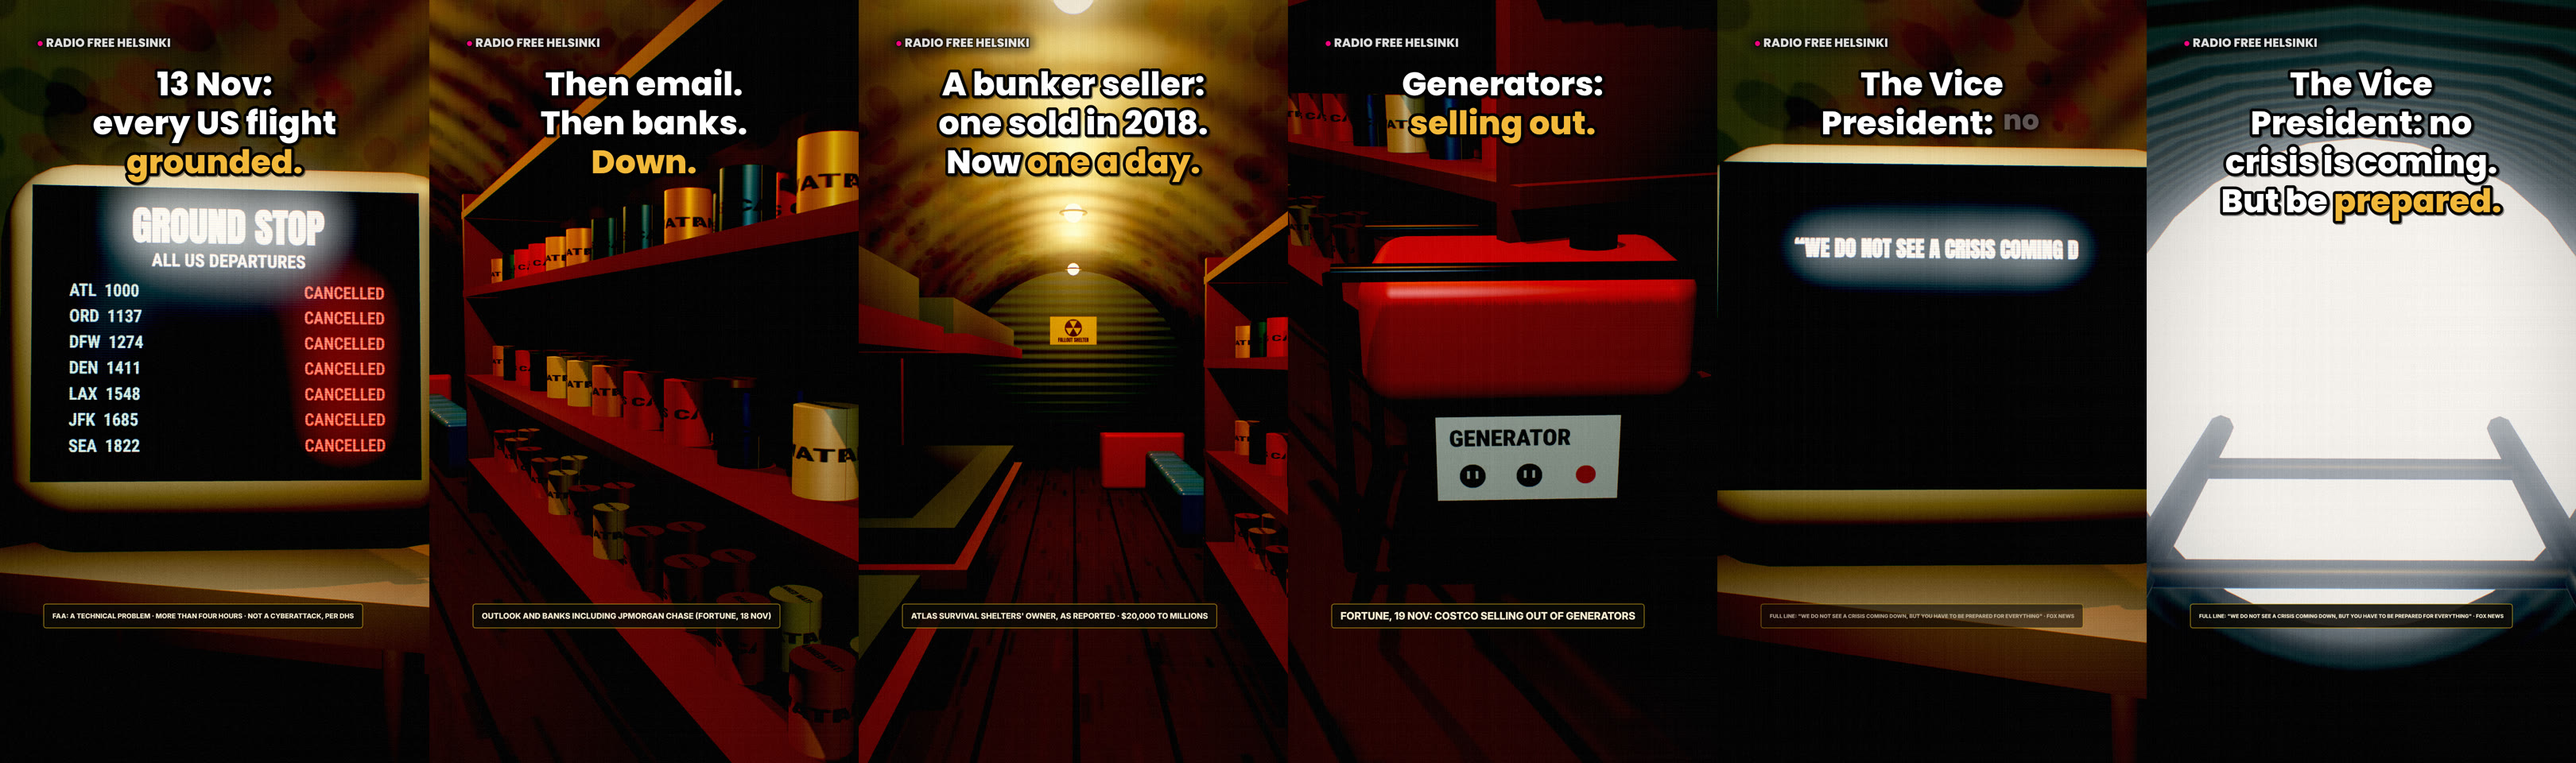
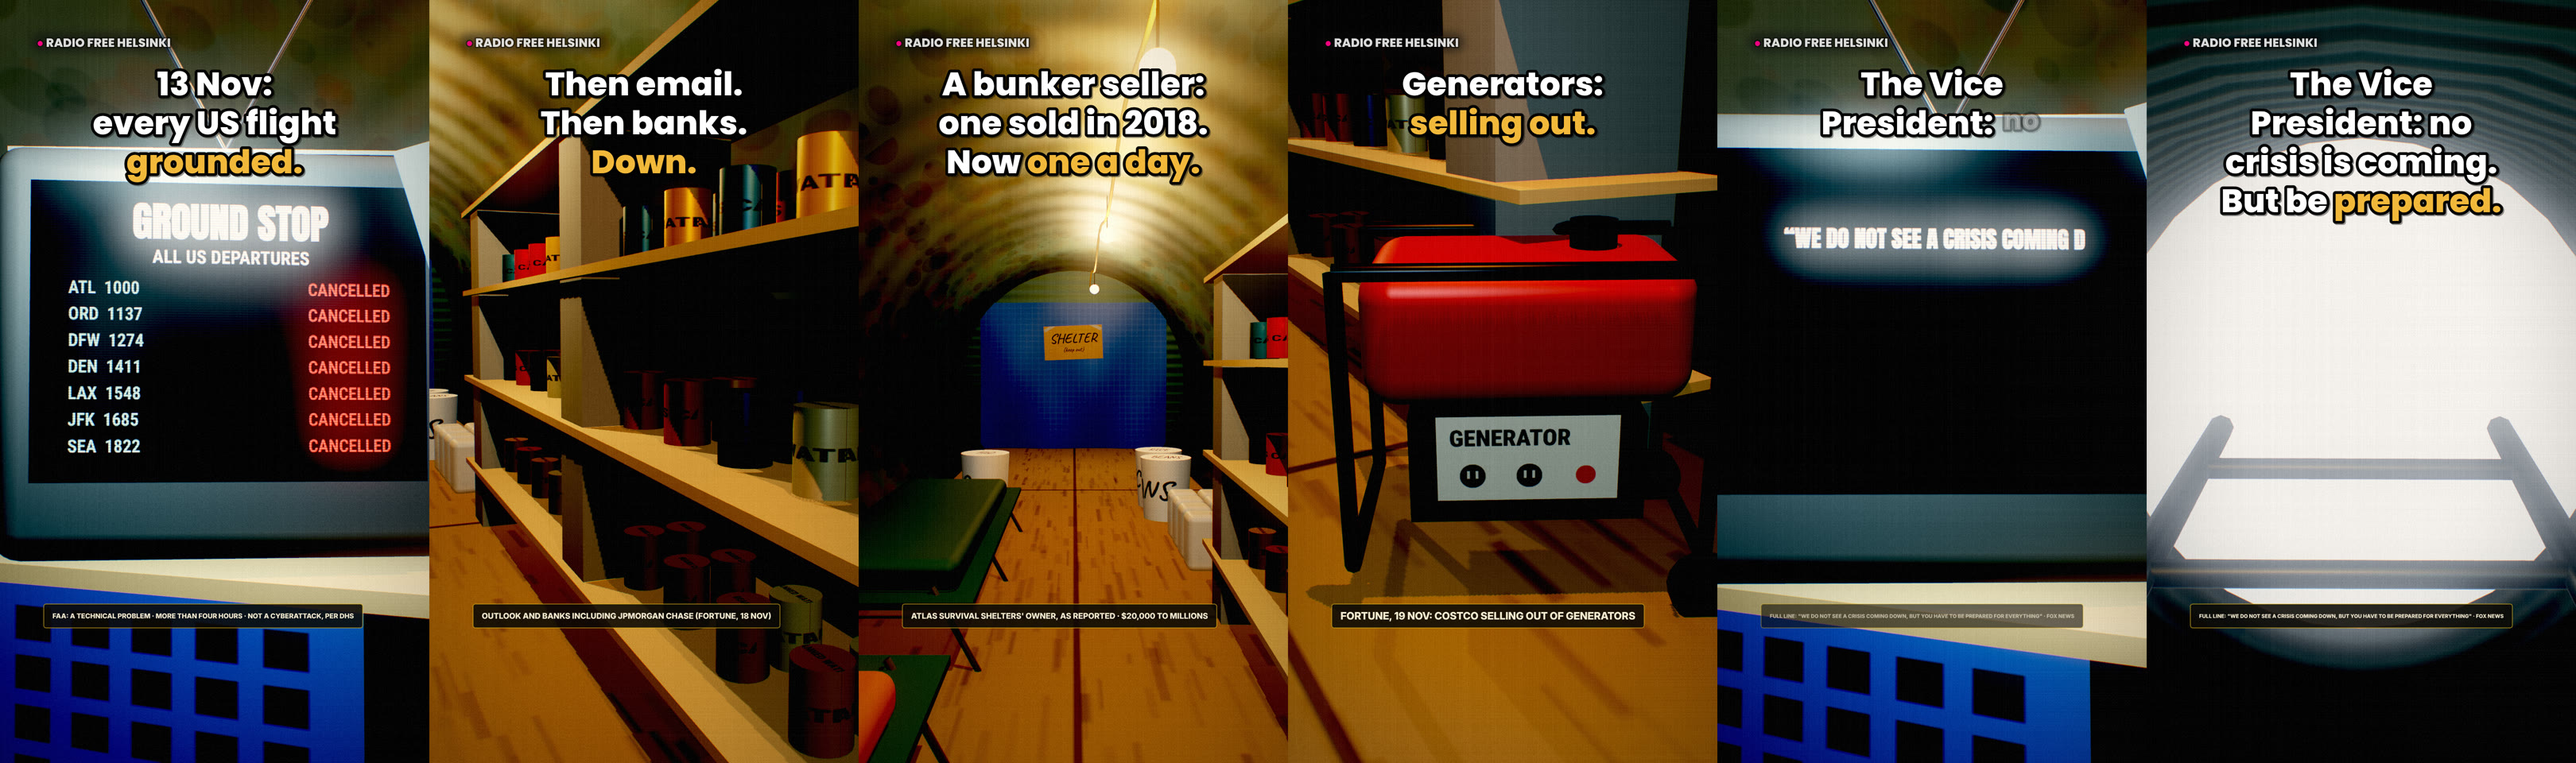
RFH Be Prepared v1.1: the DIY, cheaper bunker (owner direction)
Claude-Session: https://claude.ai/code/session_011b61vCGymuKHRP9nugFoKh

diff --git a/radiofree/studio/art-motion/clay/bunker/film.js b/radiofree/studio/art-motion/clay/bunker/film.js
@@ -19,8 +19,8 @@ import * as CAP from '../../pipeline/text/captions.js';
 const W = 1080, H = 1920, TAU = Math.PI * 2, FPS = 30;
 const Q = new URLSearchParams(location.search), LANG = Q.get('lang') || 'en';
 const FONT_DIR = Q.get('fonts') || '../../am/' + encodeURIComponent('代码工程') + '/lib/fonts/';
-for (const [fam, file] of [['Inter', 'Inter-var.woff'], ['Anton-400', 'Anton-400.woff'], ['RobotoCondensed', 'RobotoCondensed-var.woff']]) {
-  const f = new FontFace(fam, `url(${FONT_DIR}${file})`, fam === 'Anton-400' ? {} : { weight: '100 900' }); document.fonts.add(await f.load()); }
+for (const [fam, file] of [['Inter', 'Inter-var.woff'], ['Anton-400', 'Anton-400.woff'], ['RobotoCondensed', 'RobotoCondensed-var.woff'], ['Caveat-600', 'Caveat-600.woff']]) {
+  const f = new FontFace(fam, `url(${FONT_DIR}${file})`, (fam === 'Anton-400' || fam === 'Caveat-600') ? {} : { weight: '100 900' }); document.fonts.add(await f.load()); }
 const clamp = (v, a = 0, b = 1) => Math.max(a, Math.min(b, v)), lerp = (a, b, k) => a + (b - a) * k;
 const smooth = (k) => { k = clamp(k); return k * k * (3 - 2 * k); };
 const ease = { io: (k) => { k = clamp(k); return k < 0.5 ? 4 * k * k * k : 1 - Math.pow(-2 * k + 2, 3) / 2; }, out: (k) => 1 - Math.pow(1 - clamp(k), 3) };
@@ -62,16 +62,19 @@ const rust = canvasTex(512, 512, (g, w, h) => { g.fillStyle = '#5f7672'; g.fillR
 rust.wrapS = rust.wrapT = THREE.RepeatWrapping; rust.repeat.set(4, 2);
 const tube = mesh(new THREE.CylinderGeometry(RAD, RAD, LEN, 64, 1, true), std('#ffffff', { map: rust, normalMap: corrN, normalScale: new THREE.Vector2(0.9, 0.9), metalness: 0.55, roughness: 0.5, side: THREE.BackSide }),
   { rot: [Math.PI / 2, 0, 0], pos: [0, 0, -LEN / 2 + 1], parent: S, cast: false });
-const floorT = canvasTex(256, 1024, (g, w, h) => { g.fillStyle = '#4a3624'; g.fillRect(0, 0, w, h); for (let x = 0; x < w; x += 32) { g.fillStyle = `rgba(0,0,0,.4)`; g.fillRect(x, 0, 2, h); } const R = rng(9); for (let i = 0; i < 1200; i++) { g.fillStyle = `rgba(${R() < 0.5 ? '90,64,40' : '30,20,12'},${R() * 0.25})`; g.fillRect(R() * w, R() * h, 1 + R() * 3, 6 + R() * 30); } });
+const floorT = canvasTex(256, 1024, (g, w, h) => { g.fillStyle = '#9c7a4e'; g.fillRect(0, 0, w, h); for (let y = 0; y < h; y += 256) { g.fillStyle = `rgba(0,0,0,.5)`; g.fillRect(0, y, w, 3); } g.fillStyle = 'rgba(0,0,0,.4)'; g.fillRect(w / 2, 0, 3, h); const R = rng(9); for (let i = 0; i < 1200; i++) { g.fillStyle = `rgba(${R() < 0.5 ? '90,64,40' : '30,20,12'},${R() * 0.25})`; g.fillRect(R() * w, R() * h, 1 + R() * 3, 6 + R() * 30); } });
 mesh(new THREE.PlaneGeometry(1.9, LEN), std('#ffffff', { map: floorT, roughness: 0.8 }), { rot: [-Math.PI / 2, 0, 0], pos: [0, -0.72, -LEN / 2 + 1], parent: S });
 // the far end wall, the near end wall with the ladder and the hatch above it
 const wallM = std('#56706a', { roughness: 0.6, metalness: 0.5, normalMap: corrN });
 mesh(new THREE.CircleGeometry(RAD, 48), wallM, { pos: [0, 0, -LEN + 1.01], parent: S, cast: false });
 // the shelter sign (civil-defence: three yellow triangles in a black circle, a yellow plate)
-const signT = canvasTex(512, 300, (g, w, h) => { g.fillStyle = '#f2c21a'; g.fillRect(0, 0, w, h); g.fillStyle = '#111'; g.beginPath(); g.arc(w / 2, 120, 95, 0, TAU); g.fill();
-  g.fillStyle = '#f2c21a'; for (let i = 0; i < 3; i++) { const a = -Math.PI / 2 + i * TAU / 3; g.beginPath(); g.moveTo(w / 2, 120); g.lineTo(w / 2 + Math.cos(a - 0.5) * 85, 120 + Math.sin(a - 0.5) * 85); g.lineTo(w / 2 + Math.cos(a + 0.5) * 85, 120 + Math.sin(a + 0.5) * 85); g.fill(); }
-  g.fillStyle = '#111'; g.font = '800 54px Anton-400'; g.textAlign = 'center'; g.fillText(UI.sign, w / 2, 272); });
-mesh(new THREE.PlaneGeometry(0.5, 0.3), std('#ffffff', { map: signT, roughness: 0.5 }), { pos: [0, 0.55, -LEN + 1.03], parent: S, cast: false });
+const tarpT = canvasTex(256, 256, (g, w, h) => { g.fillStyle = '#2d5fa8'; g.fillRect(0, 0, w, h); g.strokeStyle = 'rgba(255,255,255,.08)'; for (let i = 0; i < w; i += 8) { g.beginPath(); g.moveTo(i, 0); g.lineTo(i, h); g.stroke(); g.beginPath(); g.moveTo(0, i); g.lineTo(w, i); g.stroke(); } });
+const tarp = mesh(new THREE.PlaneGeometry(2.0, 1.9, 20, 20), std('#ffffff', { map: tarpT, roughness: 0.6 }), { pos: [0, -0.1, -LEN + 1.08], parent: S, cast: false });
+{ const p_ = tarp.geometry.attributes.position; for (let i = 0; i < p_.count; i++) p_.setZ(i, 0.04 * Math.sin(p_.getX(i) * 7) * Math.sin(p_.getY(i) * 3 + 1)); p_.needsUpdate = true; tarp.geometry.computeVertexNormals(); }
+const signT = canvasTex(512, 300, (g, w, h) => { g.fillStyle = '#b48a56'; g.fillRect(0, 0, w, h); const R = rng(4); for (let i = 0; i < 400; i++) { g.fillStyle = `rgba(80,50,20,${R() * 0.15})`; g.fillRect(R() * w, R() * h, 30, 2); }
+  g.fillStyle = '#111'; g.textAlign = 'center'; g.font = '700 120px Caveat-600'; g.fillText(UI.sign, w / 2, 150); g.font = '700 54px Caveat-600'; g.fillText('(keep out)', w / 2, 230);
+  g.fillStyle = 'rgba(170,170,170,.85)'; g.save(); g.translate(40, 20); g.rotate(-0.5); g.fillRect(-40, -12, 110, 26); g.restore(); g.save(); g.translate(w - 40, 20); g.rotate(0.5); g.fillRect(-70, -12, 110, 26); g.restore(); });
+mesh(new THREE.PlaneGeometry(0.62, 0.36), std('#ffffff', { map: signT, roughness: 0.9 }), { pos: [0, 0.42, -LEN + 1.13], rot: [0, 0, 0.04], parent: S, cast: false });
 // a ladder up into a short neck, the hatch at the top (it shuts at the end)
 const LAD = new THREE.Group(); S.add(LAD); LAD.position.set(0, 0, 0.6);
 { const steel = std('#3c4a48', { metalness: 0.8, roughness: 0.35 });
@@ -84,20 +87,26 @@ mesh(new THREE.CylinderGeometry(0.47, 0.47, 0.06, 32), std('#2f3b39', { metalnes
 const shaft = new THREE.SpotLight('#fff3dc', 0, 8, 0.32, 0.6, 1.4); shaft.position.set(0, 2.9, 0.6); shaft.target.position.set(0, -0.7, 0.4); S.add(shaft, shaft.target);
 // the bunks (left), the shelves (right), water jugs, the generator, the table and the TV
 const wood = std('#6b4a2c', { roughness: 0.7 }), green = std('#3f5a3c', { roughness: 0.8 }), tan = std('#a8936a', { roughness: 0.9 });
-for (const z of [-2.0, -4.2]) { const B = new THREE.Group(); S.add(B); B.position.set(-0.62, 0, z);
-  for (const y of [-0.35, 0.25]) { mesh(new THREE.BoxGeometry(0.7, 0.05, 1.9), wood, { pos: [0, y, 0], parent: B }); mesh(new THREE.BoxGeometry(0.62, 0.1, 1.8), green, { pos: [0, y + 0.07, 0], parent: B }); }
-  for (const dz of [-0.92, 0.92]) mesh(new THREE.BoxGeometry(0.05, 1.0, 0.05), wood, { pos: [-0.3, -0.2, dz], parent: B }); }
+for (const [z, col] of [[-2.2, '#d4692c'], [-4.4, '#3f5a3c']]) { const B = new THREE.Group(); S.add(B); B.position.set(-0.6, -0.5, z);   // camping cots, a sleeping bag on each
+  mesh(new THREE.BoxGeometry(0.62, 0.02, 1.85), std('#3d5a3a', { roughness: 0.9 }), { pos: [0, 0, 0], parent: B });
+  for (const dz of [-0.85, 0, 0.85]) for (const sx of [-1, 1]) mesh(new THREE.CylinderGeometry(0.01, 0.01, 0.3, 6), std('#888', { metalness: 0.9 }), { pos: [sx * 0.25, -0.1, dz], rot: [0, 0, sx * 0.5], parent: B });
+  mesh(rbox(0.52, 0.1, 1.5, 0.05), std(col, { roughness: 0.7 }), { pos: [0, 0.06, 0.1], parent: B }); }
 const SHELF = new THREE.Group(); S.add(SHELF); SHELF.position.set(0.66, 0, -2.6); SHELF.rotation.y = -0.03;
 const LEVELS = [-0.5, -0.15, 0.2, 0.52];
-for (const y of LEVELS) mesh(new THREE.BoxGeometry(0.4, 0.03, 3.2), wood, { pos: [0, y, 0], parent: SHELF });
-for (const z of [-1.55, 1.55]) mesh(new THREE.BoxGeometry(0.4, 1.3, 0.04), wood, { pos: [0, -0.05, z], parent: SHELF });
+const ply = std('#c9a674', { roughness: 0.85 }), block = std('#8d8d88', { roughness: 0.95 });
+for (const y of LEVELS) mesh(new THREE.BoxGeometry(0.4, 0.02, 3.2), ply, { pos: [0, y, 0], parent: SHELF });
+for (let li = 0; li < LEVELS.length - 1; li++) for (const z of [-1.4, 0, 1.4]) mesh(new THREE.BoxGeometry(0.36, LEVELS[li + 1] - LEVELS[li] - 0.02, 0.18), block, { pos: [0, (LEVELS[li] + LEVELS[li + 1]) / 2, z], parent: SHELF });
+mesh(new THREE.BoxGeometry(0.36, 0.2, 0.18), block, { pos: [0, -0.62, -1.4], parent: SHELF }); mesh(new THREE.BoxGeometry(0.36, 0.2, 0.18), block, { pos: [0, -0.62, 1.4], parent: SHELF });
 // cans: instanced, each with a label colour; they drop in row by row in beat 2
 const canLab = canvasTex(512, 128, (g, w, h) => { const cols = ['#c8382a', '#e8d6a4', '#2f6f8a', '#d9a62a']; cols.forEach((c, i) => { g.fillStyle = c; g.fillRect(i * 128, 0, 128, h); g.fillStyle = 'rgba(0,0,0,.75)'; g.font = '800 26px RobotoCondensed'; g.textAlign = 'center'; g.fillText(i % 2 ? UI.brand : UI.beans, i * 128 + 64, 74); }); });
 const CANS = []; { const geo = new THREE.CylinderGeometry(0.045, 0.045, 0.12, 20), R = rng(21);
   LEVELS.slice(0, 3).forEach((y, li) => { for (let i = 0; i < 26; i++) { const m = new THREE.MeshStandardMaterial({ map: canLab, roughness: 0.35, metalness: 0.4 }); m.map = canLab.clone(); m.map.offset.x = Math.floor(R() * 4) / 4; m.map.repeat.x = 0.25; m.map.needsUpdate = true;
     const c = mesh(geo, m, { parent: SHELF, pos: [-0.06 + (i % 2) * 0.1, y + 0.075, -1.45 + Math.floor(i / 2) * 0.23] }); c.userData = { y: y + 0.075, at: li * 0.32 + (i / 26) * 0.6 }; CANS.push(c); } }); }
-const JUG = new THREE.MeshPhysicalMaterial({ color: '#6fb6e8', roughness: 0.2, transmission: 0.6, thickness: 0.1, transparent: true, opacity: 0.85 });
-for (let i = 0; i < 6; i++) mesh(rbox(0.22, 0.3, 0.22, 0.04), JUG, { pos: [0.62, -0.57, -5.0 - i * 0.26], parent: S });
+const JUG = new THREE.MeshPhysicalMaterial({ color: '#f2f0e6', roughness: 0.35, transmission: 0.35, thickness: 0.1, transparent: true, opacity: 0.9 });
+for (let i = 0; i < 8; i++) mesh(rbox(0.15, 0.25, 0.15, 0.03), JUG, { pos: [0.58 + (i % 2) * 0.16, -0.6, -4.6 - Math.floor(i / 2) * 0.18], parent: S });
+const bucketT = canvasTex(256, 128, (g, w, h) => { g.fillStyle = '#f4f2ea'; g.fillRect(0, 0, w, h); g.fillStyle = '#111'; g.font = '700 54px Caveat-600'; g.textAlign = 'center'; g.fillText(['BEANS', 'RICE', 'H2O'][Math.floor(Math.random() * 0) ] || 'BEANS', w / 2, 80); });
+for (const [x, z, w_] of [[0.55, -5.6, 'BEANS'], [0.55, -5.95, 'RICE'], [-0.55, -5.8, 'H2O']]) { const bt = canvasTex(256, 128, (g, w, h) => { g.fillStyle = '#f4f2ea'; g.fillRect(0, 0, w, h); g.fillStyle = '#111'; g.font = '700 58px Caveat-600'; g.textAlign = 'center'; g.fillText(w_, w / 2, 82); });
+  mesh(new THREE.CylinderGeometry(0.15, 0.13, 0.36, 24), std('#ffffff', { map: bt, roughness: 0.6 }), { pos: [x, -0.54, z], rot: [0, 1.4, 0], parent: S }); }
 const GEN = new THREE.Group(); S.add(GEN); GEN.position.set(0.42, -0.5, -1.0); GEN.rotation.y = -0.5;
 { const red = std('#c8382a', { roughness: 0.4, metalness: 0.3 }), blk = std('#1c1c1c', { metalness: 0.7, roughness: 0.4 }), tube_ = std('#2a2a2a', { metalness: 0.9, roughness: 0.3 });
   mesh(rbox(0.46, 0.2, 0.3, 0.05), red, { pos: [0, 0.18, 0], parent: GEN });                         // the fuel tank on top
@@ -112,19 +121,25 @@ const GEN = new THREE.Group(); S.add(GEN); GEN.position.set(0.42, -0.5, -1.0); G
   for (const x of [-0.25, 0.25]) mesh(new THREE.CylinderGeometry(0.012, 0.012, 0.34, 8), tube_, { pos: [x, -0.14, 0], rot: [Math.PI / 2, 0, 0], parent: GEN });
   for (const z of [-0.18, 0.18]) mesh(new THREE.CylinderGeometry(0.05, 0.05, 0.03, 16), blk, { pos: [0.25, -0.18, z], rot: [Math.PI / 2, 0, 0], parent: GEN }); }
 const TABLE = new THREE.Group(); S.add(TABLE); TABLE.position.set(-0.45, -0.72, -0.6);
-mesh(new THREE.BoxGeometry(0.6, 0.04, 0.45), wood, { pos: [0, 0.55, 0], parent: TABLE });
-for (const [x, z] of [[-0.26, -0.18], [0.26, -0.18], [-0.26, 0.18], [0.26, 0.18]]) mesh(new THREE.CylinderGeometry(0.02, 0.015, 0.55, 8), wood, { pos: [x, 0.27, z], parent: TABLE });
+const crateT = canvasTex(128, 128, (g, w, h) => { g.fillStyle = '#1e5fb0'; g.fillRect(0, 0, w, h); g.fillStyle = 'rgba(0,0,0,.65)'; for (let x = 10; x < w - 10; x += 22) for (let y = 14; y < h - 10; y += 26) g.fillRect(x, y, 14, 18); });
+for (const y of [0.14, 0.42]) mesh(new THREE.BoxGeometry(0.44, 0.27, 0.34), std('#ffffff', { map: crateT, roughness: 0.6 }), { pos: [0, y, 0], parent: TABLE });
+mesh(new THREE.BoxGeometry(0.6, 0.02, 0.45), ply, { pos: [0, 0.57, 0], parent: TABLE });
 // the TV: a round-cornered cabinet on legs, the screen a canvas the news is drawn into
 const TV = new THREE.Group(); TABLE.add(TV); TV.position.set(0, 0.8, 0); TV.rotation.y = 0.55;
-mesh(rbox(0.52, 0.42, 0.36, 0.08), std('#7a5a36', { roughness: 0.45 }), { parent: TV });
+mesh(rbox(0.52, 0.42, 0.4, 0.03), std('#4a4a48', { roughness: 0.5 }), { parent: TV });
+const tapeM = std('#a9a9a4', { roughness: 0.4, metalness: 0.3 }); mesh(new THREE.BoxGeometry(0.06, 0.2, 0.005), tapeM, { pos: [0.205, 0.12, 0.204], rot: [0, 0, 0.3], parent: TV }); mesh(new THREE.BoxGeometry(0.5, 0.05, 0.005), tapeM, { pos: [0, 0.22, 0.12], rot: [Math.PI / 2, 0, 0.05], parent: TV });
+for (const sx of [-1, 1]) { const ant = mesh(new THREE.CylinderGeometry(0.004, 0.004, 0.5, 6), std('#ccc', { metalness: 1, roughness: 0.2 }), { pos: [sx * 0.08, 0.42, -0.05], rot: [0, 0, -sx * 0.5], parent: TV });
+  if (sx > 0) mesh(new THREE.IcosahedronGeometry(0.03, 1), std('#d8d8d8', { metalness: 1, roughness: 0.35 }), { pos: [0.2, 0.64, -0.05], parent: TV }); }
 const tvC = document.createElement('canvas'); tvC.width = 640; tvC.height = 480; const tvTex = new THREE.CanvasTexture(tvC); tvTex.colorSpace = THREE.SRGBColorSpace;
-const SCREEN = mesh(new THREE.PlaneGeometry(0.4, 0.3), new THREE.MeshBasicMaterial({ map: tvTex, color: new THREE.Color(1.6, 1.6, 1.6) }), { pos: [-0.02, 0.02, 0.181], parent: TV, cast: false });
-for (const x of [0.17, 0.2]) mesh(new THREE.CylinderGeometry(0.012, 0.012, 0.02, 12), std('#d8c8a0', { metalness: 0.6 }), { pos: [0.21, x - 0.25, 0.185], rot: [Math.PI / 2, 0, 0], parent: TV });
+const SCREEN = mesh(new THREE.PlaneGeometry(0.4, 0.3), new THREE.MeshBasicMaterial({ map: tvTex, color: new THREE.Color(1.6, 1.6, 1.6) }), { pos: [-0.02, 0.02, 0.202], parent: TV, cast: false });
+for (const x of [0.17, 0.2]) mesh(new THREE.CylinderGeometry(0.012, 0.012, 0.02, 12), std('#d8c8a0', { metalness: 0.6 }), { pos: [0.21, x - 0.25, 0.205], rot: [Math.PI / 2, 0, 0], parent: TV });
 const tvGlow = new THREE.PointLight('#bfe8ff', 0, 3, 2); tvGlow.position.set(-0.3, 0.3, -0.2); S.add(tvGlow);
 // the bulbs: caged, warm, along the crown of the tube
-const BULBS = []; for (let i = 0; i < 4; i++) { const z = -0.8 - i * 2.2, b = mesh(new THREE.SphereGeometry(0.05, 16, 12), new THREE.MeshBasicMaterial({ color: '#000' }), { pos: [0, 1.0, z], parent: S, cast: false });
-  mesh(new THREE.TorusGeometry(0.07, 0.006, 6, 20), std('#222', { metalness: 0.8 }), { pos: [0, 1.0, z], rot: [Math.PI / 2, 0, 0], parent: S, cast: false });
-  const L = new THREE.PointLight('#ffb35c', 0, 4.5, 1.6); L.position.set(0, 0.92, z); L.castShadow = i < 2; if (L.castShadow) { L.shadow.mapSize.set(1024, 1024); L.shadow.bias = -0.002; } S.add(L); BULBS.push({ b, L }); }
+{ const pts = []; for (let i = 0; i <= 40; i++) { const z = 0.4 - i * 0.24, sag = 0.12 * Math.sin(((z - 0.4) / 2.2) * Math.PI) ** 2; pts.push(new THREE.Vector3(0.18, 1.1 - sag, z)); }
+  mesh(new THREE.TubeGeometry(new THREE.CatmullRomCurve3(pts), 200, 0.008, 6), std('#e8a020', { roughness: 0.5 }), { parent: S, cast: false }); }   // an orange extension cord along the crown
+const BULBS = []; for (let i = 0; i < 4; i++) { const z = -0.8 - i * 2.2, b = mesh(new THREE.SphereGeometry(0.04, 16, 12), new THREE.MeshBasicMaterial({ color: '#000' }), { pos: [0.18, 0.88 - (i % 2) * 0.05, z], parent: S, cast: false });
+  mesh(new THREE.CylinderGeometry(0.004, 0.004, 0.2, 6), std('#222'), { pos: [0.18, 0.99 - (i % 2) * 0.03, z], parent: S, cast: false });
+  const L = new THREE.PointLight(i % 2 ? '#ffd9a0' : '#ffb35c', 0, 4.5, 1.6); L.position.set(0.18, 0.84, z); L.castShadow = i < 2; if (L.castShadow) { L.shadow.mapSize.set(1024, 1024); L.shadow.bias = -0.002; } S.add(L); BULBS.push({ b, L }); }
 S.add(new THREE.HemisphereLight('#2a4a48', '#100a06', 0.12));
 
 // ------------------------------------------------------------------ the TV picture, per beat

diff --git a/radiofree/studio/art-motion/plan/films/52-be-prepared.md b/radiofree/studio/art-motion/plan/films/52-be-prepared.md
@@ -22,3 +22,10 @@ the table carries the news. Each beat the shelter fills further; the last shot c
 Captions: "13 Nov: / every US flight / [grounded]." · "Then email. / Then banks. / [Down]." · "A bunker seller: / one sold in 2018. /
 Now [one a day]." · "Generators: / [selling out]." · "The Vice / President: no / crisis is coming. / But be [prepared]." — the last is a
 PARAPHRASE (no quotation marks); his exact full sentence types onto the TV and sits in tag5. 22.6 s. Sound: its own kit, next.
+
+## v1.1 (22 Nov) — owner: "Maybe mixed with redneck prep and cheaper feel"
+Restyled DIY and cheap, aimed at the panic-buying and the official line, never at rural people: a buried culvert pipe, bare bulbs
+sagging on an orange extension cord, plywood shelves on cinder blocks, five-gallon buckets marker-labelled BEANS / RICE / H2O, gallon
+jugs, camping cots and sleeping bags, a boxy TV with foil-tipped rabbit ears and duct tape on milk crates, a blue tarp and a
+hand-lettered cardboard SHELTER (keep out) sign. No DIY-bunker trend is claimed (none found in reporting): the look is a choice,
+the captions stay on the record. Stills replaced in previews/22-11-RFH-Be-Prepared-stills.jpg.
